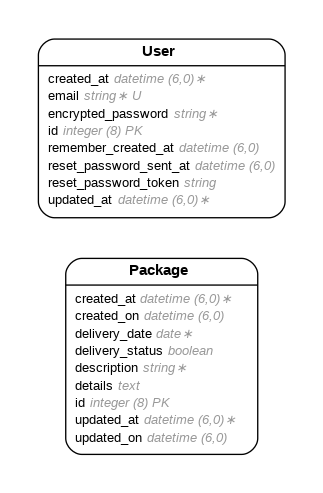
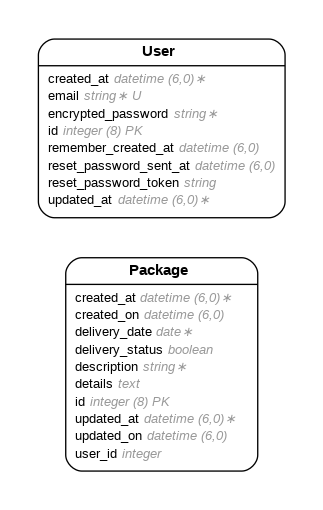
added foreign key to packages model, added associations to packages and users

Changed region(s): [[0.0929, 0.0609, 0.8978, 0.4564], [0.1858, 0.4868, 0.805, 0.9432], [0.774, 0.8824, 0.805, 0.9128]]

diff --git a/db/schema.rb b/db/schema.rb
@@ -10,7 +10,7 @@
 #
 # It's strongly recommended that you check this file into your version control system.
 
-ActiveRecord::Schema[7.1].define(version: 2024_12_17_035023) do
+ActiveRecord::Schema[7.1].define(version: 2024_12_17_040058) do
   # These are extensions that must be enabled in order to support this database
   enable_extension "plpgsql"
 
@@ -23,6 +23,7 @@ ActiveRecord::Schema[7.1].define(version: 2024_12_17_035023) do
     t.datetime "updated_on"
     t.datetime "created_at", null: false
     t.datetime "updated_at", null: false
+    t.integer "user_id"
   end
 
   create_table "users", force: :cascade do |t|

diff --git a/app/models/user.rb b/app/models/user.rb
@@ -21,4 +21,5 @@ class User < ApplicationRecord
   # :confirmable, :lockable, :timeoutable, :trackable and :omniauthable
   devise :database_authenticatable, :registerable,
          :recoverable, :rememberable, :validatable
+  has_many(:packages)
 end

diff --git a/app/models/package.rb b/app/models/package.rb
@@ -11,6 +11,8 @@
 #  updated_on      :datetime
 #  created_at      :datetime         not null
 #  updated_at      :datetime         not null
+#  user_id         :integer
 #
 class Package < ApplicationRecord
+  belongs_to(:user)
 end

diff --git a/db/migrate/20241217040058_add_user_id_to_packages.rb b/db/migrate/20241217040058_add_user_id_to_packages.rb
@@ -1,0 +1,5 @@
+class AddUserIdToPackages < ActiveRecord::Migration[7.1]
+  def change
+    add_column :packages, :user_id, :integer
+  end
+end
